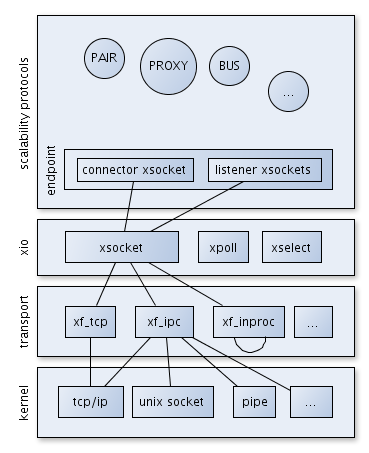
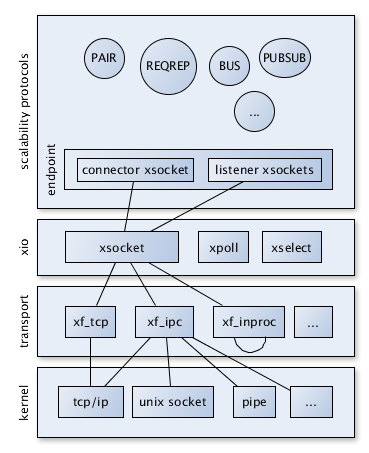
[feature] proxyio arch gramphml

diff --git a/docs/html/index.html b/docs/html/index.html
@@ -444,7 +444,7 @@ Martin Sustrik &lt;sustrik@250bpm.com&gt;</tt></pre>
 <div id="footnotes"><hr /></div>
 <div id="footer">
 <div id="footer-text">
-Last updated 2014-05-05 10:48:59 CST
+Last updated 2014-05-05 11:02:55 CST
 </div>
 </div>
 </body>
